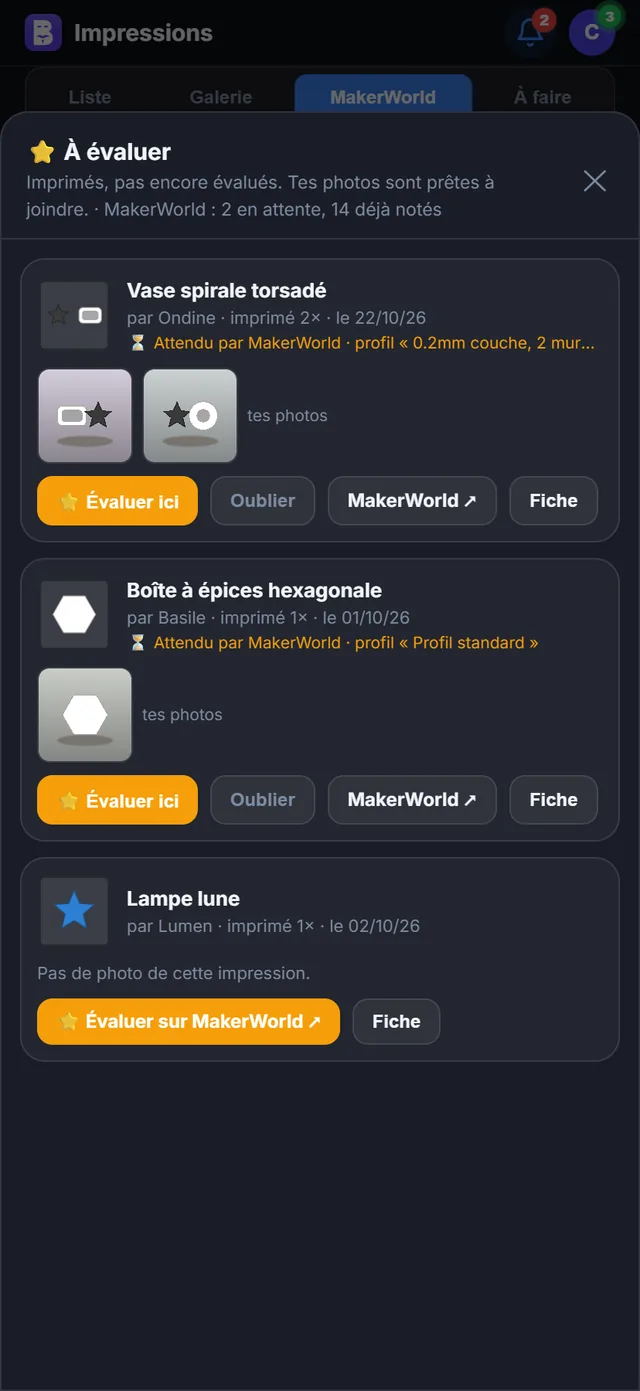
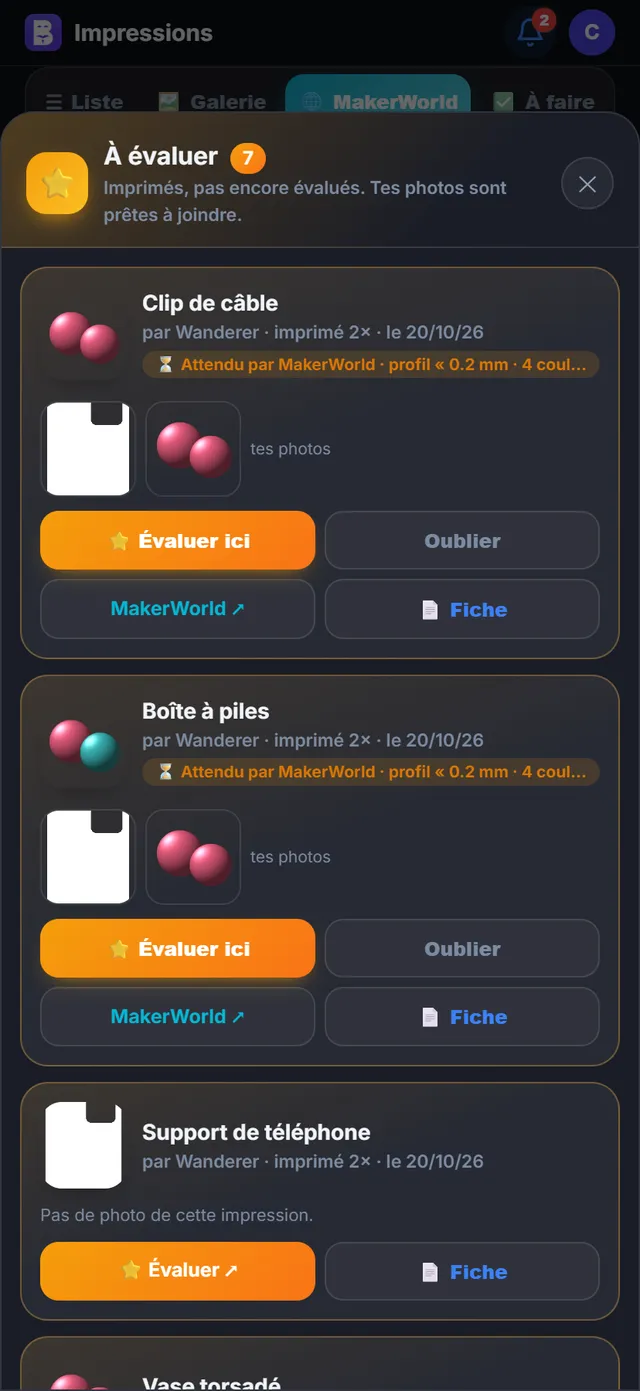
Fenêtres « À évaluer » et « Ranger dans mes collections » redessinées
À évaluer : en-tête orange avec le nombre, cartes teintées, boutons deux par ligne,
formulaire d'évaluation plus lisible (note sur 5, photos arrondies, bouton Publier
en dégradé). Ranger : cartes par collection, pastilles + ajout / − retrait,
Enregistrer qui dit combien de collections. Guide mis à jour.

diff --git a/frontend/src/components/MwToRate.jsx b/frontend/src/components/MwToRate.jsx
@@ -280,48 +280,50 @@ function RateForm({ x, targets, onDone }) {
     onDone();
   };
   return (
-    <div style={{ display: "flex", flexDirection: "column", gap: 8, padding: 10, borderRadius: 10, background: "var(--surface2)",
-      border: "1px solid var(--border)" }}>
-      <div style={{ display: "flex", gap: 2 }}>
+    <div style={{ display: "flex", flexDirection: "column", gap: 9, padding: 12, borderRadius: 16, background: "var(--surface)",
+      border: "1px solid rgba(245,158,11,0.35)" }}>
+      <div style={{ display: "flex", alignItems: "center", gap: 2 }}>
         {[1, 2, 3, 4, 5].map(n => (
           <button key={n} onClick={() => setScore(n)} aria-label={`${n} étoiles`} style={{ background: "none", border: "none", padding: 2,
-            cursor: "pointer", fontSize: 26, lineHeight: 1, color: n <= score ? "#f59e0b" : "var(--border)" }}>★</button>
+            cursor: "pointer", fontSize: 30, lineHeight: 1, color: n <= score ? "#f59e0b" : "var(--border)",
+            filter: n <= score ? "drop-shadow(0 2px 6px rgba(245,158,11,.45))" : "none", transform: n <= score ? "scale(1.04)" : "none", transition: "transform .12s" }}>★</button>
         ))}
+        <span style={{ marginLeft: 8, fontSize: 13, fontWeight: 900, color: "#d97706" }}>{score}/5</span>
       </div>
       {score === 5 && fams?.length > 0 && (
         <div style={{ display: "flex", gap: 6, alignItems: "center" }}>
           <select value={fam} onChange={e => { const i = Number(e.target.value); setFam(i); draw(i); }}
-            style={{ flex: 1, minWidth: 0, borderRadius: 8, border: "1px solid var(--border)", background: "var(--surface)",
-              color: "var(--text)", padding: "6px 8px", fontSize: 12.5 }}>
+            style={{ flex: 1, minWidth: 0, height: 36, borderRadius: 18, border: "1px solid var(--border)", background: "var(--surface2)",
+              color: "var(--text)", padding: "0 10px", fontSize: 12.5, fontWeight: 700 }}>
             {fams.map((f, i) => <option key={i} value={i}>{f.name} ({f.messages.length})</option>)}
           </select>
-          <button onClick={() => draw()} title="Un autre message de cette famille" style={{ padding: "5px 10px", borderRadius: 8, fontSize: 13,
+          <button onClick={() => draw()} data-tip="Un autre message de cette famille" style={{ width: 36, height: 36, borderRadius: 12, fontSize: 14,
             cursor: "pointer", background: "var(--surface2)", border: "1px solid var(--border)", color: "var(--text)" }}>🔀</button>
         </div>
       )}
       <textarea value={text} onChange={e => { setText(e.target.value); setAuto(false); }} rows={4} maxLength={2000}
         placeholder={low ? "Qu'est-ce qui n'a pas marché ? (obligatoire)" : "Ton avis (facultatif)"}
-        style={{ width: "100%", boxSizing: "border-box", borderRadius: 8, border: "1px solid var(--border)", background: "var(--surface)",
-          color: "var(--text)", padding: 8, fontSize: 13, resize: "vertical", fontFamily: "inherit" }}/>
+        style={{ width: "100%", boxSizing: "border-box", borderRadius: 12, border: "1px solid var(--border)", background: "var(--surface2)",
+          color: "var(--text)", padding: 10, fontSize: 13, resize: "vertical", fontFamily: "inherit" }}/>
       <div>
-        <div style={{ fontSize: 11, color: "var(--muted)", marginBottom: 4 }}>
+        <div style={{ fontSize: 11.5, fontWeight: 700, color: "var(--muted)", marginBottom: 5 }}>
           {picked.size ? `Photos jointes (${picked.size}) : touche pour retirer ou ajouter` : "Sans photo, c'est possible aussi"}</div>
         <div style={{ display: "flex", gap: 6, flexWrap: "wrap", alignItems: "center" }}>
           {(x.photos || []).map(u => (
-            <img key={u} src={u} alt="" onClick={() => toggle(u)} style={{ width: 58, height: 58, borderRadius: 8, objectFit: "cover",
+            <img key={u} src={u} alt="" onClick={() => toggle(u)} style={{ width: 58, height: 58, borderRadius: 12, objectFit: "cover",
               cursor: "pointer", border: picked.has(u) ? "2px solid #f59e0b" : "2px solid transparent", opacity: picked.has(u) ? 1 : 0.4 }}/>
           ))}
           {extras.map(e => (
             <div key={e.key} style={{ position: "relative" }}>
-              <img src={e.preview} alt="" onClick={() => e.id && toggle(e.id)} style={{ width: 58, height: 58, borderRadius: 8, objectFit: "cover",
+              <img src={e.preview} alt="" onClick={() => e.id && toggle(e.id)} style={{ width: 58, height: 58, borderRadius: 12, objectFit: "cover",
                 cursor: "pointer", border: e.id && picked.has(e.id) ? "2px solid #f59e0b" : "2px solid transparent",
                 opacity: e.sending ? 0.5 : e.id && picked.has(e.id) ? 1 : 0.4 }}/>
               {e.sending && <span style={{ position: "absolute", inset: 0, display: "flex", alignItems: "center", justifyContent: "center",
                 fontSize: 11, color: "white", fontWeight: 700 }}>…</span>}
             </div>
           ))}
-          <button onClick={() => fileRef.current?.click()} disabled={picked.size >= 8} title="Ajouter une photo (hors galerie)"
-            style={{ width: 58, height: 58, borderRadius: 8, border: "1.5px dashed var(--border)", background: "var(--surface)",
+          <button onClick={() => fileRef.current?.click()} disabled={picked.size >= 8} data-tip="Ajouter une photo (hors galerie)"
+            style={{ width: 58, height: 58, borderRadius: 12, border: "1.5px dashed var(--border)", background: "var(--surface)",
               color: "var(--muted)", fontSize: 22, cursor: "pointer", opacity: picked.size >= 8 ? 0.4 : 1 }}>+</button>
           <input ref={fileRef} type="file" accept="image/jpeg,image/png,image/webp" multiple hidden
             onChange={e => { addFiles(e.target.files); e.target.value = ""; }}/>
@@ -329,8 +331,9 @@ function RateForm({ x, targets, onDone }) {
       </div>
       {err && <div style={{ fontSize: 12, color: "#ef4444" }}>{err}</div>}
       <div style={{ display: "flex", alignItems: "center", gap: 10, flexWrap: "wrap" }}>
-      <button onClick={send} disabled={busy || extras.some(e => e.sending) || (low && text.trim().length < 10)} style={{ alignSelf: "flex-start", padding: "7px 16px",
-        borderRadius: 10, fontSize: 12.5, fontWeight: 700, cursor: "pointer", background: "#f59e0b", color: "white", border: "none",
+      <button onClick={send} disabled={busy || extras.some(e => e.sending) || (low && text.trim().length < 10)} style={{ alignSelf: "flex-start", padding: "10px 18px",
+        borderRadius: 12, fontSize: 13, fontWeight: 800, cursor: "pointer", background: "linear-gradient(135deg, #F59E0B, #F97316)", color: "white", border: "none",
+        boxShadow: "0 8px 18px -10px #F59E0B",
         opacity: busy || (low && text.trim().length < 10) ? 0.5 : 1 }}>{busy ? "Publication…" : "Publier l'évaluation"}</button>
         {!targets && <button onClick={() => forgetIt(x, onDone)} disabled={busy} title="Supprime la demande d'évaluation sur MakerWorld"
           style={{ background: "none", border: "none", padding: 0, cursor: "pointer", fontSize: 12, fontWeight: 600, color: "var(--muted)",
@@ -340,6 +343,9 @@ function RateForm({ x, targets, onDone }) {
   );
 }
 
+const act = { padding: "9px 8px", borderRadius: 12, fontSize: 12.5, fontWeight: 800, whiteSpace: "nowrap", minWidth: 0,
+  overflow: "hidden", textOverflow: "ellipsis", textAlign: "center", boxSizing: "border-box", cursor: "pointer",
+  background: "var(--surface)", border: "1px solid var(--border)", color: "var(--text)" };
 export function ToRateSheet({ data, onClose, onOpen }) {
   useTrackDetail("MakerWorld · À évaluer");
   const [view, setView] = useState(null);
@@ -351,31 +357,44 @@ export function ToRateSheet({ data, onClose, onOpen }) {
     <div data-no-pull="" onClick={onClose} style={{ position: "fixed", inset: 0, zIndex: 4100, background: "rgba(0,0,0,0.6)",
       display: "flex", alignItems: "flex-end", justifyContent: "center" }}>
       <div onClick={e => e.stopPropagation()} className="sheet-panel" style={{ width: "100%", maxWidth: 760, height: "92vh",
-        borderRadius: "18px 18px 0 0", border: "1px solid var(--border)", display: "flex", flexDirection: "column", overflow: "hidden" }}>
-        <div style={{ display: "flex", alignItems: "center", gap: 10, padding: "14px 16px 10px", borderBottom: "1px solid var(--border)" }}>
-          <div style={{ flex: 1 }}>
-            <div style={{ fontSize: 15, fontWeight: 800, color: "var(--text)" }}>⭐ À évaluer</div>
-            <div style={{ fontSize: 11.5, color: "var(--muted)" }}>
+        borderRadius: "22px 22px 0 0", border: "1px solid var(--border)", display: "flex", flexDirection: "column", overflow: "hidden" }}>
+        <div style={{ display: "flex", alignItems: "center", gap: 10, padding: "16px 16px 12px", borderBottom: "1px solid var(--border)",
+          background: "linear-gradient(135deg, rgba(245,158,11,0.24), transparent 70%)" }}>
+          <span style={{ width: 40, height: 40, borderRadius: 13, flexShrink: 0, display: "flex", alignItems: "center", justifyContent: "center", fontSize: 20,
+            background: "linear-gradient(135deg, #F59E0B, #FBBF24)", boxShadow: "0 6px 16px -6px #F59E0B" }}>⭐</span>
+          <div style={{ flex: 1, minWidth: 0 }}>
+            <div style={{ display: "flex", alignItems: "baseline", gap: 8 }}>
+              <span style={{ fontSize: 16, fontWeight: 900, color: "var(--text)" }}>À évaluer</span>
+              {items.length > 0 && <span style={{ fontSize: 12, fontWeight: 900, color: "#fff", padding: "1px 8px", borderRadius: 20,
+                background: "linear-gradient(135deg, #F59E0B, #F97316)" }}>{items.length}</span>}</div>
+            <div style={{ fontSize: 11.5, fontWeight: 600, color: "var(--muted)" }}>
               {data?.rated_known === false ? "Tes évaluations n'ont pas pu être lues : tout est listé."
                 : "Imprimés, pas encore évalués. Tes photos sont prêtes à joindre."}
               {data?.stats && <span> · MakerWorld : {data.stats.pending} en attente, {data.stats.rated} déjà notés</span>}</div>
           </div>
-          <button onClick={onClose} aria-label="Fermer" style={{ background: "none", border: "none", color: "var(--muted)", fontSize: 20,
-            cursor: "pointer", padding: 4 }}>✕</button>
+          <button onClick={onClose} aria-label="Fermer" style={{ width: 34, height: 34, borderRadius: "50%", border: "1px solid var(--border)", flexShrink: 0,
+            background: "var(--surface2)", color: "var(--text2)", fontSize: 15, cursor: "pointer" }}>✕</button>
         </div>
         <div style={{ flex: 1, overflowY: "auto", padding: 12, display: "flex", flexDirection: "column", gap: 10 }}>
-          {!items.length && <p style={{ textAlign: "center", color: "var(--muted)", fontSize: 13, padding: 24 }}>Rien à évaluer 🎉</p>}
+          {!items.length && <div style={{ textAlign: "center", padding: "30px 16px", borderRadius: 18, border: "1px dashed var(--border)",
+            background: "radial-gradient(80% 80% at 50% 0%, rgba(34,197,94,0.14), transparent 70%), var(--surface2)" }}>
+            <div style={{ fontSize: 34 }}>🎉</div>
+            <p style={{ color: "var(--muted)", fontSize: 13.5, fontWeight: 700, margin: "6px 0 0" }}>Rien à évaluer 🎉</p></div>}
           {items.map(x => (
-            <div key={x.design_id} className="card" style={{ padding: 10, display: "flex", flexDirection: "column", gap: 8 }}>
+            <div key={x.design_id} style={{ padding: 12, display: "flex", flexDirection: "column", gap: 9, borderRadius: 18,
+              border: open === x.design_id ? "1.5px solid rgba(245,158,11,0.6)" : "1px solid color-mix(in srgb, #F59E0B 25%, var(--border))",
+              background: "linear-gradient(160deg, rgba(245,158,11,0.10), transparent 45%), var(--surface2)" }}>
               <div style={{ display: "flex", gap: 10, alignItems: "center" }}>
-                {x.cover_url ? <MwImg src={x.cover_url} w={110} style={{ width: 48, height: 48, borderRadius: 8, objectFit: "cover", flexShrink: 0 }}/>
-                  : <span style={{ width: 48, height: 48, borderRadius: 8, background: "var(--surface2)", flexShrink: 0 }}/>}
+                {x.cover_url ? <MwImg src={x.cover_url} w={120} style={{ width: 56, height: 56, borderRadius: 14, objectFit: "cover", flexShrink: 0,
+                  boxShadow: "0 6px 14px -8px rgba(0,0,0,.5)" }}/>
+                  : <span style={{ width: 56, height: 56, borderRadius: 14, background: "var(--surface)", flexShrink: 0 }}/>}
                 <div style={{ flex: 1, minWidth: 0 }}>
-                  <div style={{ fontSize: 13, fontWeight: 700, color: "var(--text)", overflow: "hidden", textOverflow: "ellipsis", whiteSpace: "nowrap" }}>
+                  <div style={{ fontSize: 14, fontWeight: 800, color: "var(--text)", overflow: "hidden", textOverflow: "ellipsis", whiteSpace: "nowrap" }}>
                     {x.title || x.print_name || `Modèle ${x.design_id}`}</div>
-                  <div style={{ fontSize: 11, color: "var(--muted)" }}>
+                  <div style={{ fontSize: 11.5, fontWeight: 600, color: "var(--muted)" }}>
                     {[x.creator_name && `par ${x.creator_name}`, x.printed > 0 && `imprimé ${x.printed}×`, x.last_date && `le ${day(x.last_date)}`].filter(Boolean).join(" · ")}</div>
-                  {x.awaited && <div style={{ fontSize: 10.5, color: "#f59e0b", overflow: "hidden", textOverflow: "ellipsis", whiteSpace: "nowrap" }}>
+                  {x.awaited && <div style={{ display: "inline-block", maxWidth: "100%", marginTop: 3, fontSize: 10.5, fontWeight: 800, color: "#d97706", padding: "1px 8px",
+                    borderRadius: 20, background: "rgba(245,158,11,0.14)", overflow: "hidden", textOverflow: "ellipsis", whiteSpace: "nowrap", boxSizing: "border-box" }}>
                     ⏳ Attendu par MakerWorld{x.profile_title ? ` · profil « ${x.profile_title} »` : ""}</div>}
                 </div>
               </div>
@@ -383,28 +402,26 @@ export function ToRateSheet({ data, onClose, onOpen }) {
                 <div style={{ display: "flex", gap: 6, flexWrap: "wrap" }}>
                   {x.photos.map((u, i) => (
                     <img key={i} src={u} alt="" onClick={() => setView({ images: x.photos, index: i })}
-                      style={{ width: 62, height: 62, borderRadius: 8, objectFit: "cover", cursor: "pointer", border: "1px solid var(--border)" }}/>
+                      style={{ width: 62, height: 62, borderRadius: 12, objectFit: "cover", cursor: "pointer", border: "1px solid var(--border)" }}/>
                   ))}
                   <span style={{ alignSelf: "center", fontSize: 10.5, color: "var(--muted)" }}>
                     {x.photo_source === "group" ? "photos du groupe" : "tes photos"}</span>
                 </div>
               ) : <div style={{ fontSize: 11, color: "var(--muted)" }}>Pas de photo de cette impression.</div>}
-              <div style={{ display: "flex", gap: 8, flexWrap: "wrap" }}>
+              <div style={{ display: "grid", gridTemplateColumns: "repeat(2, minmax(0, 1fr))", gap: 6 }}>
                 {x.rating_id ? (
-                  <button onClick={() => setOpen(o => o === x.design_id ? null : x.design_id)} style={{ padding: "6px 12px", borderRadius: 10,
-                    fontSize: 12, fontWeight: 700, cursor: "pointer", background: "#f59e0b", color: "white", border: "none" }}>
+                  <button onClick={() => setOpen(o => o === x.design_id ? null : x.design_id)} style={{ ...act, border: "none", color: "white",
+                    background: open === x.design_id ? "var(--muted)" : "linear-gradient(135deg, #F59E0B, #F97316)", boxShadow: "0 6px 14px -8px #F59E0B" }}>
                     {open === x.design_id ? "Fermer" : "⭐ Évaluer ici"}</button>
                 ) : null}
                 {x.rating_id && (
                   <button onClick={() => forgetIt(x, () => setDone(s => new Set(s).add(x.design_id)))} title="Ne plus me demander d'évaluer ce modèle"
-                    style={{ padding: "6px 12px", borderRadius: 10, fontSize: 12, fontWeight: 600, cursor: "pointer",
-                      background: "var(--surface2)", border: "1px solid var(--border)", color: "var(--muted)" }}>Oublier</button>
+                    style={{ ...act, color: "var(--muted)" }}>Oublier</button>
                 )}
-                <a href={x.url} target="_blank" rel="noopener noreferrer" style={{ padding: "6px 12px", borderRadius: 10, fontSize: 12, fontWeight: 700,
-                  textDecoration: "none", ...(x.rating_id ? { background: "var(--surface2)", border: "1px solid var(--border)", color: "var(--text)" }
-                    : { background: "#f59e0b", color: "white" }) }}>{x.rating_id ? "MakerWorld ↗" : "⭐ Évaluer sur MakerWorld ↗"}</a>
-                <button onClick={() => onOpen?.(x)} style={{ padding: "6px 12px", borderRadius: 10, fontSize: 12, fontWeight: 600, cursor: "pointer",
-                  background: "var(--surface2)", border: "1px solid var(--border)", color: "var(--text)" }}>Fiche</button>
+                <a href={x.url} target="_blank" rel="noopener noreferrer" data-tip={x.rating_id ? "Le modèle sur MakerWorld" : "Évaluer sur MakerWorld"}
+                  style={{ ...act, textDecoration: "none",
+                  ...(x.rating_id ? { color: "#06B6D4" } : { background: "linear-gradient(135deg, #F59E0B, #F97316)", color: "white", border: "none" }) }}>{x.rating_id ? "MakerWorld ↗" : "⭐ Évaluer ↗"}</a>
+                <button onClick={() => onOpen?.(x)} style={{ ...act, color: "#3B82F6" }}>📄 Fiche</button>
               </div>
               {open === x.design_id && <RateForm x={x} onDone={() => { setDone(s => new Set(s).add(x.design_id)); setOpen(null); }}/>}
             </div>

diff --git a/frontend/src/components/MakerWorldCollectionsPicker.jsx b/frontend/src/components/MakerWorldCollectionsPicker.jsx
@@ -44,66 +44,81 @@ export default function MakerWorldCollectionsPicker({ designId, title, item, onC
   const cols = (data?.collections || []).filter(c => !q.trim() || norm(c.title).includes(norm(q.trim())));
   const before = new Set(data?.in || []);
   const changed = data?.known && (sel.size !== before.size || [...sel].some(i => !before.has(i)));
-  const btn = { padding:"8px 12px", borderRadius:10, fontSize:12.5, fontWeight:600, cursor:"pointer",
+  const btn = { padding:"10px 12px", borderRadius:12, fontSize:13, fontWeight:800, cursor:"pointer",
     background:"var(--surface2)", border:"1px solid var(--border)", color:"var(--text)" };
+  const nIn = sel.size;
 
   return createPortal(
     <div data-no-pull="" onClick={onClose} style={{ position:"fixed", inset:0, zIndex:4500, background:"rgba(0,0,0,0.6)",
       display:"flex", alignItems:"flex-end", justifyContent:"center" }}>
-      <div onClick={e => e.stopPropagation()} style={{ background:"var(--sheet-bg)", borderRadius:"20px 20px 0 0",
+      <div onClick={e => e.stopPropagation()} style={{ background:"var(--sheet-bg)", borderRadius:"22px 22px 0 0", overflow:"hidden",
         width:"100%", maxWidth:480, maxHeight:"80dvh", display:"flex", flexDirection:"column",
         paddingBottom:"env(safe-area-inset-bottom,0px)" }}>
-        <div style={{ padding:"14px 16px 10px", borderBottom:"1px solid var(--border)" }}>
-          <div style={{ display:"flex", alignItems:"center", gap:8 }}>
-            <h3 style={{ flex:1, minWidth:0, fontSize:15, fontWeight:800, color:"var(--text)", margin:0 }}>Ranger dans mes collections</h3>
-            <button onClick={onClose} style={{ background:"none", border:"none", color:"var(--muted)", fontSize:18, cursor:"pointer" }}>✕</button>
+        {/* en-tete : l'etoile, le modele, combien de collections le contiennent */}
+        <div style={{ padding:"16px 16px 12px", borderBottom:"1px solid var(--border)", background:"linear-gradient(135deg, rgba(245,158,11,0.22), transparent 70%)" }}>
+          <div style={{ display:"flex", alignItems:"center", gap:10 }}>
+            <span style={{ width:38, height:38, borderRadius:12, flexShrink:0, display:"flex", alignItems:"center", justifyContent:"center", fontSize:19,
+              background:"linear-gradient(135deg, #F59E0B, #FBBF24)", color:"#fff", boxShadow:"0 6px 16px -6px #F59E0B" }}>☆</span>
+            <span style={{ flex:1, minWidth:0 }}>
+              <span style={{ display:"block", fontSize:16, fontWeight:900, color:"var(--text)" }}>Ranger dans mes collections</span>
+              {title && <span style={{ display:"block", fontSize:12, fontWeight:700, color:"var(--muted)", overflow:"hidden", textOverflow:"ellipsis",
+                whiteSpace:"nowrap" }}>{title}</span>}
+            </span>
+            <button onClick={onClose} aria-label="Fermer" style={{ width:34, height:34, borderRadius:"50%", border:"1px solid var(--border)", flexShrink:0,
+              background:"var(--surface2)", color:"var(--text2)", fontSize:15, cursor:"pointer" }}>✕</button>
           </div>
-          {title && <div style={{ fontSize:12, color:"var(--muted)", marginTop:2, overflow:"hidden", textOverflow:"ellipsis",
-            whiteSpace:"nowrap" }}>{title}</div>}
           {(data?.collections?.length || 0) > 8 && (
-            <input value={q} onChange={e => setQ(e.target.value)} placeholder="Chercher une collection…" autoComplete="off"
-              style={{ width:"100%", boxSizing:"border-box", marginTop:10, padding:"7px 10px", borderRadius:10, fontSize:13,
+            <input value={q} onChange={e => setQ(e.target.value)} placeholder="🔎 Chercher une collection…" autoComplete="off"
+              style={{ width:"100%", boxSizing:"border-box", marginTop:12, height:40, padding:"0 14px", borderRadius:20, fontSize:13,
                 background:"var(--surface2)", border:"1px solid var(--border)", color:"var(--text)", outline:"none" }}/>
           )}
         </div>
-        <div style={{ flex:1, overflowY:"auto", padding:"6px 8px" }}>
+        <div style={{ flex:1, overflowY:"auto", padding:"8px 12px", display:"flex", flexDirection:"column", gap:6 }}>
           {data === null ? <p style={msg}>Chargement…</p>
             : data.error ? <p style={{ ...msg, color:"#f59e0b" }}>{data.error}</p>
             : (<>
               {!data.known && (
-                <p style={{ ...msg, color:"#f59e0b" }}>Je n'arrive pas à lire dans quelles collections est déjà ce modèle :
+                <p style={{ ...msg, color:"#f59e0b", borderRadius:14, border:"1px solid rgba(245,158,11,0.4)", background:"rgba(245,158,11,0.1)" }}>
+                  Je n'arrive pas à lire dans quelles collections est déjà ce modèle :
                   enregistrer pourrait le retirer des autres, c'est donc bloqué.
                   {data.raw && <span style={{ display:"block", marginTop:6, fontFamily:"JetBrains Mono,monospace", fontSize:10.5,
                     color:"var(--muted)", wordBreak:"break-all" }}>Réponse de MakerWorld : {data.raw}</span>}</p>
               )}
-              {cols.map(c => (
-                <label key={c.id} style={{ display:"flex", alignItems:"center", gap:10, padding:"8px", borderRadius:10,
-                  cursor: data.known ? "pointer" : "default", background: sel.has(c.id) ? "rgba(59,130,246,0.08)" : "none" }}>
-                  <input type="checkbox" checked={sel.has(c.id)} disabled={!data.known} onChange={() => toggle(c.id)}/>
-                  <span style={{ flex:1, fontSize:13, color:"var(--text)" }}>{c.title}</span>
-                  {c.count != null && <span style={{ fontSize:11, color:"var(--muted)" }}>{c.count}</span>}
-                </label>
-              ))}
+              {cols.map(c => {
+                const on = sel.has(c.id), was = before.has(c.id);
+                return (
+                  <label key={c.id} style={{ display:"flex", alignItems:"center", gap:10, padding:"10px 12px", borderRadius:14,
+                    cursor: data.known ? "pointer" : "default", border:`1px solid ${on ? "rgba(245,158,11,0.5)" : "var(--border)"}`,
+                    background: on ? "linear-gradient(135deg, rgba(245,158,11,0.14), transparent 70%), var(--surface2)" : "var(--surface2)" }}>
+                    <input type="checkbox" checked={on} disabled={!data.known} onChange={() => toggle(c.id)} style={{ width:18, height:18, accentColor:"#F59E0B" }}/>
+                    <span style={{ flex:1, minWidth:0, fontSize:13.5, fontWeight:800, color:"var(--text)" }}>📁 {c.title}</span>
+                    {/* ce qui changera a l'enregistrement */}
+                    {on !== was && <span style={{ fontSize:10.5, fontWeight:900, padding:"1px 7px", borderRadius:20,
+                      color: on ? "#16a34a" : "#ef4444", background: on ? "rgba(34,197,94,0.14)" : "rgba(239,68,68,0.12)" }}>{on ? "+ ajout" : "− retrait"}</span>}
+                    {c.count != null && <span style={{ fontSize:11.5, fontWeight:800, color:"var(--muted)", padding:"1px 8px", borderRadius:20, background:"var(--surface)" }}>{c.count}</span>}
+                  </label>);
+              })}
             </>)}
         </div>
         <div style={{ padding:"10px 16px", borderTop:"1px solid var(--border)", display:"flex", flexDirection:"column", gap:8 }}>
           {newName === null ? (
-            <button onClick={() => setNewName("")} disabled={busy || !data?.known} style={{ ...btn, background:"none" }}>+ Nouvelle collection</button>
+            <button onClick={() => setNewName("")} disabled={busy || !data?.known} style={{ ...btn, background:"none", borderStyle:"dashed", color:"#F59E0B" }}>＋ Nouvelle collection</button>
           ) : (
             <div style={{ display:"flex", gap:6 }}>
               <input value={newName} onChange={e => setNewName(e.target.value)} placeholder="Nom de la collection" autoFocus
                 maxLength={60} autoComplete="off" onKeyDown={e => { if (e.key === "Enter" && newName.trim()) create(); }}
-                style={{ flex:1, minWidth:0, padding:"8px 10px", borderRadius:10, fontSize:13, background:"var(--surface2)",
+                style={{ flex:1, minWidth:0, padding:"9px 12px", borderRadius:12, fontSize:13, background:"var(--surface2)",
                   border:"1px solid var(--border)", color:"var(--text)", outline:"none" }}/>
-              <button onClick={() => setNewName(null)} style={btn}>✕</button>
+              <button onClick={() => setNewName(null)} aria-label="Annuler" style={btn}>✕</button>
               <button onClick={create} disabled={busy || !newName.trim()}
-                style={{ ...btn, background:"#3b82f6", border:"none", color:"white", fontWeight:700 }}>Créer</button>
+                style={{ ...btn, background:"linear-gradient(135deg, #F59E0B, #F97316)", border:"none", color:"white" }}>Créer</button>
             </div>
           )}
-          {err && <div style={{ fontSize:12, color:"#ef4444" }}>{err}</div>}
+          {err && <div style={{ fontSize:12, fontWeight:700, color:"#ef4444" }}>{err}</div>}
           <button onClick={save} disabled={busy || !changed}
-            style={{ ...btn, background: changed ? "#3b82f6" : "var(--border)", border:"none", color:"white", fontWeight:700 }}>
-            {busy ? "…" : "Enregistrer"}
+            style={{ ...btn, border:"none", color:"white", background: changed ? "linear-gradient(135deg, #F59E0B, #F97316)" : "var(--border)",
+              boxShadow: changed ? "0 8px 18px -10px #F59E0B" : "none" }}>
+            {busy ? "…" : changed ? `Enregistrer · ${nIn} collection${nIn > 1 ? "s" : ""}` : "Enregistrer"}
           </button>
         </div>
       </div>

diff --git a/backend/guide/pages/makerworld.html b/backend/guide/pages/makerworld.html
@@ -152,12 +152,12 @@
 
   <section id="makerworld-ranger">
     <h3>Ranger un modèle dans mes collections</h3>
-    <p>Touche l'étoile <span class="ui">☆</span> sur une tuile, ou <span class="ui">☆ Collections</span> dans une fiche. La fenêtre « Ranger dans mes collections » liste tes collections avec une case à cocher et leur effectif ; celles qui contiennent déjà le modèle sont cochées.</p>
+    <p>Touche l'étoile <span class="ui">☆</span> sur une tuile, ou <span class="ui">☆</span> en bas de la fiche d'un modèle. La fenêtre « Ranger dans mes collections » (le nom du modèle sous le titre) liste tes collections, une carte chacune avec une case à cocher et leur effectif ; celles qui contiennent déjà le modèle sont cochées et teintées d'orange.</p>
     <figure class="phone"><img src="img/makerworld-ranger.webp" alt="Fenêtre Ranger dans mes collections avec les cases à cocher"><figcaption>Coche ou décoche, puis <span class="ui">Enregistrer</span>.</figcaption></figure>
     <ol>
-      <li>Coche les collections où le modèle doit être, décoche celles d'où il doit sortir. Au-delà de 8 collections, un champ <span class="ui">Chercher une collection…</span> aide à trouver.</li>
-      <li>Pour une nouvelle collection : <span class="ui">+ Nouvelle collection</span>, tape le nom, <span class="ui">Créer</span> ; elle arrive déjà cochée.</li>
-      <li>Touche <span class="ui">Enregistrer</span> (actif seulement si quelque chose a changé).</li>
+      <li>Coche les collections où le modèle doit être, décoche celles d'où il doit sortir : une pastille <span class="ui">+ ajout</span> ou <span class="ui">− retrait</span> montre ce qui changera. Au-delà de 8 collections, un champ <span class="ui">Chercher une collection…</span> aide à trouver.</li>
+      <li>Pour une nouvelle collection : <span class="ui">＋ Nouvelle collection</span>, tape le nom, <span class="ui">Créer</span> ; elle arrive déjà cochée.</li>
+      <li>Touche <span class="ui">Enregistrer · N collections</span> (actif seulement si quelque chose a changé ; N est le nombre de collections qui contiendront le modèle).</li>
     </ol>
     <div class="warn"><p>MakerWorld remplace à chaque enregistrement la liste complète des collections du modèle. Si l'appli n'arrive pas à lire où il se trouve déjà, elle bloque l'enregistrement plutôt que de risquer de le retirer des autres collections, et le dit.</p></div>
   </section>
@@ -372,7 +372,7 @@
   <p>MakerWorld demande d'évaluer les modèles que tu imprimes. BambuNymous liste ceux qui attendent ton avis, avec tes photos de l'impression prêtes à joindre, et publie l'évaluation pour toi (droit MakerWorld).</p>
   <ul>
     <li>La tuile <span class="ui">⭐ À évaluer</span> en tête des <a href="#makerworld-collections">Collections</a> ouvre la liste complète.</li>
-    <li>Le bouton orange <span class="ui">⭐ Évaluer</span> apparaît dans la fiche d'un modèle qui attend ton évaluation.</li>
+    <li>Dans la fiche d'un modèle qui attend ton évaluation, une étoile en haut mène au bandeau orange et à son bouton <span class="ui">⭐ Évaluer</span>.</li>
     <li>La fiche d'un groupe d'impressions propose d'évaluer tous ses modèles d'un coup.</li>
   </ul>
   <p>L'écran « À évaluer » (étoiles, messages tout faits, photos, <span class="ui">Publier l'évaluation</span>, <span class="ui">Oublier sans évaluer</span>) est décrit en détail dans <a href="#impressions-a-evaluer">À évaluer</a>. Les modèles retenus pour être imprimés plus tard se gèrent dans la file <a href="#impressions-a-faire">À faire</a>.</p>

diff --git a/backend/guide/pages/impressions.html b/backend/guide/pages/impressions.html
@@ -432,12 +432,12 @@
     <img src="img/impressions-aevaluer.webp" alt="Fenêtre À évaluer : un modèle par carte avec photos et boutons">
     <figcaption>La tuile À évaluer (à gauche) ouvre la liste des modèles à noter (à droite).</figcaption>
   </figure>
-  <p>Chaque carte montre le modèle, son créateur, combien de fois et quand tu l'as imprimé, « ⏳ Attendu par MakerWorld » avec le profil concerné, tes photos (celles du print, sinon celles du groupe), et les boutons :</p>
+  <p>En tête, le nombre de modèles à évaluer dans une pastille orange. Chaque carte montre le modèle, son créateur, combien de fois et quand tu l'as imprimé, « ⏳ Attendu par MakerWorld » avec le profil concerné, tes photos (celles du print, sinon celles du groupe), et les boutons, deux par ligne :</p>
   <dl class="opts">
-    <dt><span class="ui">⭐ Évaluer ici</span></dt><dd>Ouvre le formulaire dans l'appli (quand MakerWorld attend l'évaluation et que tu as le droit MakerWorld).</dd>
+    <dt><span class="ui">⭐ Évaluer ici</span></dt><dd>Ouvre le formulaire dans la carte, qui s'entoure d'orange (quand MakerWorld attend l'évaluation et que tu as le droit MakerWorld) ; le bouton devient <span class="ui">Fermer</span>. Le formulaire montre la note choisie (« 5/5 »).</dd>
     <dt><span class="ui">Oublier</span></dt><dd>Ne plus te demander d'évaluer ce modèle dans l'appli.</dd>
-    <dt><span class="ui">MakerWorld ↗</span> ou <span class="ui">⭐ Évaluer sur MakerWorld ↗</span></dt><dd>Ouvre le modèle sur le site, quand l'évaluation ne peut pas se faire dans l'appli.</dd>
-    <dt><span class="ui">Fiche</span></dt><dd>La fiche du modèle dans l'appli.</dd>
+    <dt><span class="ui">MakerWorld ↗</span> ou <span class="ui">⭐ Évaluer ↗</span></dt><dd>Ouvre le modèle sur le site, quand l'évaluation ne peut pas se faire dans l'appli.</dd>
+    <dt><span class="ui">📄 Fiche</span></dt><dd>La fiche du modèle dans l'appli.</dd>
   </dl>
   <p>Quand tout est fait : « Rien à évaluer 🎉 ». Les modèles que tu as toi-même publiés ne sont jamais listés. En visite chez un copain, la liste est vide.</p>
 
